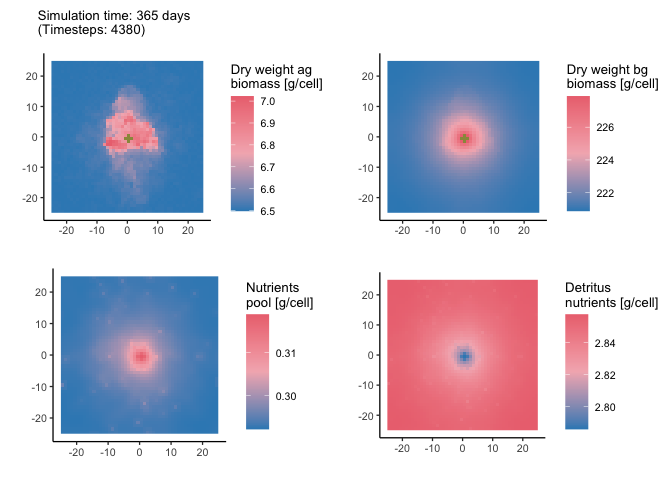
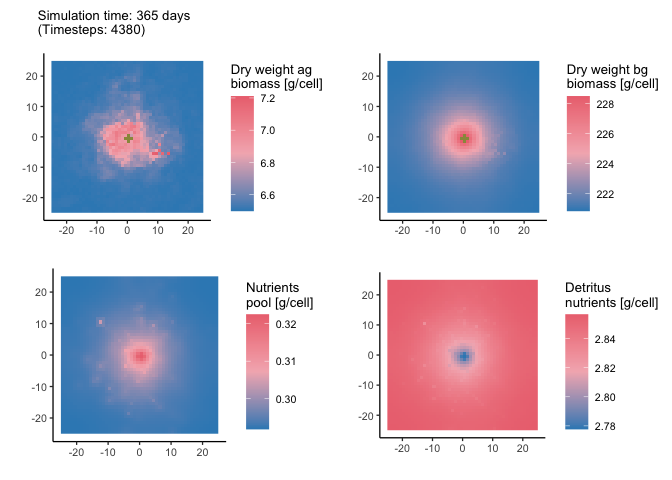
Re-build README.Rmd

diff --git a/README.md b/README.md
@@ -40,7 +40,6 @@ To access all functions to run the mode, simply load the library.
 
 ``` r
 library(arrR)
-library(patchwork) # needed for plotting
 ```
 
 The starting values and parameters must be imported as two separated
@@ -113,14 +112,14 @@ result
 #> Results printed: 4380 timestep
 #> 
 #> Seafloor: (ag_biomass, bg_biomass, nutrients_pool, detritus_pool, detritus_dead)
-#> Minimum: 6.498, 220.8825, 0.2922, 2.7856, 0
-#> Mean:        6.5395, 221.6441, 0.2947, 2.8482, 0
-#> Maximum: 7.0222, 227.8889, 0.3189, 2.8574, 0
+#> Minimum: 6.498, 220.8467, 0.2919, 2.7777, 0
+#> Mean:        6.5585, 221.7158, 0.2948, 2.8463, 0
+#> Maximum: 7.2107, 228.4847, 0.3224, 2.8566, 0
 #> 
 #> Fish population: (length, weight, died_consumption, died_background)
-#> Minimum: 11.7134, 28.8995, 0, 0
-#> Mean:        14.6482, 62.8519, 0, 0
-#> Maximum: 19.4247, 142.9785, 0, 0
+#> Minimum: 10.6235, 21.2237, 0, 0
+#> Mean:        15.0021, 74.2507, 0, 0
+#> Maximum: 25.4796, 337.1031, 0, 0
 ```
 
 To plot the results, pass the resulting object to the `plot` function.
